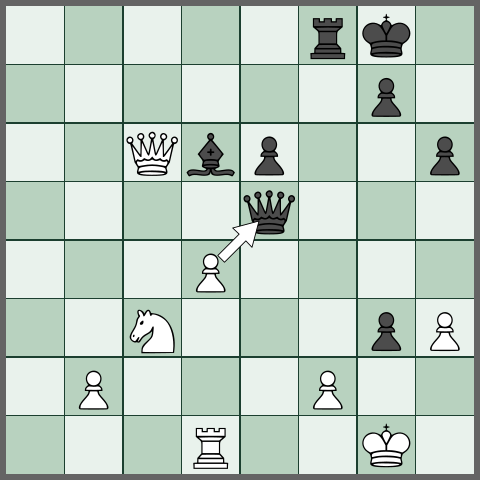
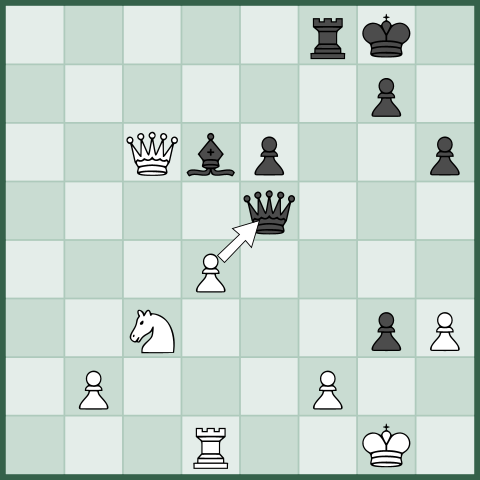
Use CRTK's native --accent flag for board tinting
CRTK was updated upstream to expose `--accent HEX` on `fen render`, which
tints squares, grid lines, and frame in one shot.  Replace the SVG
post-process + cairosvg rasterize path with a direct PNG render at the
report's moss accent (#4C8A6A).

Changed region(s): [[0.0, 0.0, 1.0, 1.0], [0.4688, 0.4688, 0.5312, 0.5312]]

diff --git a/scripts/render_puzzle_class_examples.py b/scripts/render_puzzle_class_examples.py
@@ -1,11 +1,10 @@
 #!/usr/bin/env python
 """Render puzzle-class example boards via CRTK, themed in the report green.
 
-CRTK's `fen render --format svg` produces an SVG with hard-coded greys for
-the squares (#e5e5e5 light, #cccccc dark) and a near-black frame (#b2b2b2).
-We recolor those swatches in-place with the report's forest/sage palette,
-then rasterize to PNG with cairosvg so the LaTeX builders can include the
-result directly.
+Uses the updated CRTK `fen render --accent` flag (added 2026-05-11) which
+tints the board squares, grid, and frame with a single hex code so we no
+longer need to post-process the SVG.  Output is a PNG per class that the
+LaTeX builders include directly.
 
 The fine_label=1 and fine_label=2 examples share a CRTK sister parent so
 the near-puzzle vs puzzle distinction is as small as the data allows.
@@ -14,26 +13,15 @@ All three positions are White-to-move for visual consistency.
 from __future__ import annotations
 
 import json
-import re
 import subprocess
 import sys
-import tempfile
 from pathlib import Path
 
 
-# --- Report green palette (matches LaTeX preamble) -------------------
-THEME = {
-    "#e5e5e5": "#E9F2EC",   # light square  -> palesage
-    "#cccccc": "#B8D2BF",   # dark  square  -> sage
-    "#b2b2b2": "#1B3F2F",   # frame         -> deepforest
-}
+# Report accent (moss green). Matches LaTeX `\definecolor{accent}{HTML}{4C8A6A}`.
+ACCENT = "#4C8A6A"
 
 
-# --- Hand-picked examples (all White to move) ------------------------
-#   fine_label=1 and =2 share sister_group_id
-#   `crtk_parent_-1001554678727017229` from the train split: the only
-#   structural difference is whether Black has captured into e5 (turning
-#   the position into a unique tactical win for White).
 EXAMPLES = [
     {
         "label": 0,
@@ -43,7 +31,7 @@ EXAMPLES = [
         "pv_gap": 85,
     },
     {
-        # Shares sister_group_id with the class-2 example below.
+        # Shares sister_group_id crtk_parent_-1001554678727017229 with class-2.
         "label": 1,
         "title": "Class 1 -- verified-near-puzzle (hard negative)",
         "fen":  "5rk1/6p1/2Qbp2p/8/3P1p2/2N1q1PP/1P3P2/3R2K1 w - - 1 30",
@@ -61,20 +49,21 @@ EXAMPLES = [
 ]
 
 
-def crtk_render_svg(fen: str, best_uci: str, out_path: Path, size: int = 480):
-    """Invoke `crtk fen render` to produce an SVG board with an arrow.
+def crtk_render(fen: str, best_uci: str, out_path: Path, size: int = 480,
+                accent: str = ACCENT):
+    """Invoke `crtk fen render` to produce a green-tinted PNG with an arrow.
 
     The crtk launcher cd's into its own repo root, so we pass an absolute
     output path.
     """
     out_path.parent.mkdir(parents=True, exist_ok=True)
-    out_abs = out_path.resolve()
     cmd = [
         "crtk", "fen", "render",
         "--fen", fen,
-        "--output", str(out_abs),
-        "--format", "svg",
+        "--output", str(out_path.resolve()),
+        "--format", "png",
         "--arrow", best_uci,
+        "--accent", accent,
         "--size", str(size),
     ]
     result = subprocess.run(cmd, capture_output=True, text=True)
@@ -84,37 +73,13 @@ def crtk_render_svg(fen: str, best_uci: str, out_path: Path, size: int = 480):
     return out_path
 
 
-def recolor_svg(svg_path: Path, mapping: dict[str, str]) -> str:
-    """Replace literal hex colors in the SVG body with theme equivalents."""
-    text = svg_path.read_text()
-    # Hex codes are written lowercase in CRTK's output; do a case-insensitive
-    # whole-token replace inside fill="..." attributes only.
-    def _sub(match: re.Match) -> str:
-        original = match.group(1)
-        target = mapping.get(original.lower(), original)
-        return f'fill="{target}"'
-    return re.sub(r'fill="(#[0-9a-fA-F]{6})"', _sub, text)
-
-
-def rasterize_svg_to_png(svg_text: str, png_path: Path, dpi: int = 220):
-    import cairosvg  # local import: only required when this script runs
-    png_path.parent.mkdir(parents=True, exist_ok=True)
-    cairosvg.svg2png(bytestring=svg_text.encode("utf-8"), write_to=str(png_path), dpi=dpi)
-
-
 def main():
     out_dir = Path("reports/audits")
     out_dir.mkdir(parents=True, exist_ok=True)
-
-    with tempfile.TemporaryDirectory(prefix="crtk-render-") as td:
-        td_path = Path(td)
-        for ex in EXAMPLES:
-            svg_tmp = td_path / f"class_{ex['label']}.svg"
-            crtk_render_svg(ex["fen"], ex["best_uci"], svg_tmp)
-            themed = recolor_svg(svg_tmp, THEME)
-            png_out = out_dir / f"puzzle_class_{ex['label']}.png"
-            rasterize_svg_to_png(themed, png_out)
-            print(f"Rendered class {ex['label']}: {png_out}")
+    for ex in EXAMPLES:
+        png_out = out_dir / f"puzzle_class_{ex['label']}.png"
+        crtk_render(ex["fen"], ex["best_uci"], png_out)
+        print(f"Rendered class {ex['label']}: {png_out}")
 
     captions = [{"label": e["label"], "title": e["title"], "fen": e["fen"],
                  "best_uci": e["best_uci"], "pv_gap": e["pv_gap"],